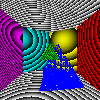
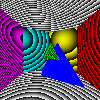
Started implementing a sphere

diff --git a/SirCornellBox/Camera.cpp b/SirCornellBox/Camera.cpp
@@ -83,7 +83,7 @@ void Camera::render(){
 }
 
 ColorDbl Camera::castRay(Ray *ray, int depht, ColorDbl color) {
-	const float EPSILON = 0.000001f;
+	const float EPSILON = 0.1f;
 	float distIntersection = 0.0f, distLightIntersection = 0.0f;
 	glm::vec3 intersectionPt = glm::vec3(0.0f, 0.0f, 0.0f);
 	glm::vec3 lightPt = scene->getLights().back().getPos();
@@ -94,7 +94,7 @@ ColorDbl Camera::castRay(Ray *ray, int depht, ColorDbl color) {
 	glm::vec3 direction = scene->getLights().back().getPos() - closestTriangle.point;
 
 	// Make the found vector tiny to be able to search areas close by
-	direction = glm::normalize(direction);// *EPSILON;
+	direction = glm::normalize(direction);// * EPSILON;
 
 	ray->setStartPt(closestTriangle.point);
 	ray->setDirRay(direction);
@@ -105,6 +105,7 @@ ColorDbl Camera::castRay(Ray *ray, int depht, ColorDbl color) {
 	if (scene->getLights().back().lightIntersection(ray, &intersectionPt, scene->triangles)) {
 		// Color from ray and intensity from light
 		distLightIntersection = glm::distance(lightPt, closestTriangle.point); 
+		//distLight = glm::distance(ray->getStartPt(), closestTriangle.point); 
 		
 		//std::cout << "triangle = " << closestTriangle.triangle.getName() << std::endl;
 		//std::cout << "lightPt = (" << lightPt.x << ", " << lightPt.y << ", " << lightPt.z << ")" << std::endl;
@@ -116,20 +117,24 @@ ColorDbl Camera::castRay(Ray *ray, int depht, ColorDbl color) {
 		distIntersection = glm::distance(intersectionPt, ray->getStartPt());
 
 		// Check if distance to wall is greater than distance to light source
-		if (distIntersection > distLightIntersection || distIntersection < 0.001) {
+		if (distIntersection > distLightIntersection || distIntersection < EPSILON) {
 			//std::cout << "triangle = " << closestTriangle.triangle.getName() << std::endl;
 			//std::cout << "distLightIntersection = " << distLightIntersection << std::endl;
 
 			// Add intensity to ray and then multiply color in triangle with color in ray
-			color = (closestTriangle.triangle.getColor() * scene->getLights().back().getEmission());// * (1 / distLightIntersection);
+			//std::cout << distLightIntersection << std::endl;
+			Light light = scene->getLights().front();
+			color = (closestTriangle.triangle.getColor() * scene->getLights().back().getEmission());// *(1 / distLightIntersection));
+			//color = closestTriangle.triangle.getColor() * light.getEmission();
 		}else {
 			// Fix so that the pixels that are in shadow accually are in shadow!
 			// If an objects is in the way between the walls and the light then that pixel is in shadow. 
+			//std::cout << "In shadow" << std::endl;
 			color = ColorDbl(0.0, 0.0, 1.0);
 		}
 	}
 	else {
-		std::cout << "in shadow" << std::endl;
+		std::cout << "Unreachable" << std::endl;
 		color = ColorDbl(0.0, 1.0, 0.0);
 	}
 	return color;

diff --git a/SirCornellBox/Scene.cpp b/SirCornellBox/Scene.cpp
@@ -141,6 +141,9 @@ void Scene::initObjects() {
 	triangles.insert(triangles.end(), tetraTriangles.begin(), tetraTriangles.end());
 }
 
+std::vector<Light> Scene::getLights() {
+	return lights;
+}
 
 TriangleIntersection Scene::detectTriangle(Ray *ray){
 	// Detect intersecting triangles with ray and store in a triangle intersection
@@ -151,6 +154,7 @@ TriangleIntersection Scene::detectTriangle(Ray *ray){
 	glm::vec3 tmpPt;
 
 	for (auto &triangle : triangles) {
+		tmpPt = glm::vec3(0.0f);
 		// Check if ray intersects triangle
 		if (triangle.rayIntersection(ray, &tmpPt)) {
 			tmpIntersection.triangle = triangle;
@@ -159,6 +163,7 @@ TriangleIntersection Scene::detectTriangle(Ray *ray){
 			// Check if triangle is the closest on to origin of ray
 			float distTriangle = glm::distance(ray->getStartPt(), tmpIntersection.point);
 			if (distTriangle < distance && distTriangle > 0.0f) {
+				//std::cout << "Distance to triangle" << triangle.getName() << " = " << distance << std::endl;
 				distance = distTriangle;
 				closestTriangle = tmpIntersection;
 			}
@@ -170,6 +175,5 @@ TriangleIntersection Scene::detectTriangle(Ray *ray){
 
 // Scene::detectTetrahedron()
 
-std::vector<Light> Scene::getLights(){
-	return lights;
-}
+Scene::SphereIntersection
+

diff --git a/SirCornellBox/Light.cpp b/SirCornellBox/Light.cpp
@@ -28,21 +28,21 @@ bool Light::lightIntersection(Ray *ray, glm::vec3 *_p, std::vector<Triangle> _tr
 	float distance = 100000000.0f;
 	bool isFound = false;
 	glm::vec3 tmpPt = glm::vec3(0.0f, 0.0f, 0.0f);
-
 	// Check if light intersects with point
 	for (auto &triangle : _triangles) {
 		// Check if the ray intersects the triangle
 		// If so, add the triangle to the returning vector
 		if (triangle.rayIntersection(ray, &tmpPt)) {
+			//std::cout << "triangle" << triangle.getName() << " pt = (" << tmpPt.x << ", " << tmpPt.y << ", " << tmpPt.z << ")" << std::endl;
 			// Check which intersection that is the closest
-			float distTriangle = glm::distance(ray->getStartPt(), tmpPt);
-			if (distTriangle < distance && distTriangle > 0.0f) {
-				distance = distTriangle;
+			//float distTriangle = glm::distance(ray->getStartPt(), tmpPt);
+			//if (distTriangle < distance && distTriangle > 0.0f) {
+				//distance = distTriangle;
 				_p->x = tmpPt.x;
 				_p->y = tmpPt.y;
 				_p->z = tmpPt.z;
 				isFound = true;
-			}
+			//}
 		}
 	}
 	return isFound;

diff --git a/SirCornellBox/Tetrahedron.cpp b/SirCornellBox/Tetrahedron.cpp
@@ -1,7 +1,5 @@
 #include "Tetrahedron.h"
 
-
-
 Tetrahedron::Tetrahedron(){
 	ColorDbl color = ColorDbl(1.0, 1.0, 0.0);
 	createTetra(glm::vec3(0.0f, 0.0f, 0.0f), color);
@@ -17,7 +15,7 @@ Tetrahedron::~Tetrahedron(){}
 void Tetrahedron::createTetra(glm::vec3 _pos, ColorDbl _color) {
 	float lengthSide = 1.0f / 3.0f;
 	glm::vec3 v0 = glm::vec3( 0.0f + _pos.x,  0.0f + _pos.y, lengthSide + _pos.z);
-	glm::vec3 v1 = glm::vec3(-lengthSide + _pos.x,  lengthSide + _pos.y, -lengthSide + _pos.z);
+	glm::vec3 v1 = glm::vec3( 0.0f + _pos.x,  lengthSide + _pos.y, -lengthSide + _pos.z);
 	glm::vec3 v2 = glm::vec3( lengthSide + _pos.x, -lengthSide + _pos.y, -lengthSide + _pos.z);
 	glm::vec3 v3 = glm::vec3(-lengthSide + _pos.x, -lengthSide + _pos.y, -lengthSide + _pos.z);
 	triangles.push_back(Triangle(v1, v2, v3, _color, "tetra_t0"));

diff --git a/SirCornellBox/Sphere.cpp b/SirCornellBox/Sphere.cpp
@@ -1,0 +1,32 @@
+#include "Sphere.h"
+
+Sphere::Sphere(){}
+
+Sphere::Sphere(glm::vec3 _centerPos, float _radius) {
+	this->centerPos = _centerPos;
+	this->radius = _radius;
+}
+
+Sphere::~Sphere(){}
+
+glm::vec3 Sphere::calculateSurfacePt(glm::vec3 rayPos, glm::vec3 rayDir){
+	float b, c, dp, dm;
+	glm::vec3 surfacePt;
+
+	// Calculate b
+	b = glm::dot((2.0f * rayDir), (rayPos - this->centerPos));
+
+	// Calculate c
+	c = glm::dot((rayPos - this->centerPos), (rayPos - this->centerPos)) - pow(this->radius, 2);
+
+	// Calculate d 
+	// TODO: use dp or dm????
+	dp = -(b / 2.0f) + sqrt(pow((b / 2.0f), 2) - c);
+	dm = -(b / 2.0f) - sqrt(pow((b / 2.0f), 2) - c);
+
+	// Calculate surface point
+	surfacePt = rayPos + dm * rayDir;
+
+	// Return surface point
+	return surfacePt;
+}

diff --git a/SirCornellBox/Sphere.h b/SirCornellBox/Sphere.h
@@ -1,0 +1,19 @@
+#pragma once
+
+#include "../SirCornellBox/glm/glm.hpp"
+#include "../SirCornellBox/glm/ext.hpp"
+#include "../SirCornellBox/glm/gtx/string_cast.hpp"
+
+class Sphere{
+public:
+	Sphere();
+	Sphere(glm::vec3 _centerPos, float _radius);
+	~Sphere();
+
+	glm::vec3 calculateSurfacePt(glm::vec3 rayPos, glm::vec3 rayDir);
+
+private:
+	glm::vec3 centerPos;
+	float radius;
+};
+
